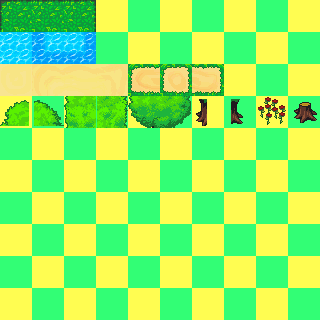
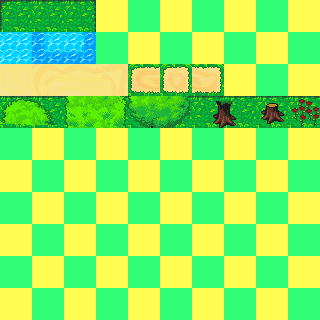
SpritesManipulados1

Changed region(s): [[0.2812, 0.2812, 1.0, 0.4062], [0.0, 0.2812, 0.2188, 0.4062]]

diff --git a/src/mapa/MapaCargado.java b/src/mapa/MapaCargado.java
@@ -1,0 +1,65 @@
+/*
+ * To change this license header, choose License Headers in Project Properties.
+ * To change this template file, choose Tools | Templates
+ * and open the template in the editor.
+ */
+package mapa;
+
+import java.awt.image.BufferedImage;
+import java.io.IOException;
+import java.util.logging.Level;
+import java.util.logging.Logger;
+import javax.imageio.ImageIO;
+import mapa.cuadro.Cuadro;
+
+/**
+ *
+ * @author Eber
+ */
+public class MapaCargado extends Mapa {
+    
+    private int[] pixeles;
+    
+    public MapaCargado(String ruta) {
+        super(ruta);
+    }
+    
+    protected void cargarMapa(String ruta){
+        try {
+            BufferedImage imagen = ImageIO.read(MapaCargado.class.getResource(ruta));
+            
+            
+            ancho = imagen.getWidth();
+            alto = imagen.getHeight();
+            
+            cuadrosCatalogo = new Cuadro[ancho *  alto];
+            pixeles = new int[ancho * alto];
+            
+            imagen.getRGB(0, 0, ancho, alto, pixeles, 0, ancho);
+            
+        } catch (IOException ex) {
+            Logger.getLogger(MapaCargado.class.getName()).log(Level.SEVERE, null, ex);
+        }
+        
+    }
+    
+    protected void generarMapa(){
+        for(int i = 0; i< pixeles.length;i++){
+         
+            
+            switch(pixeles[i]){
+                case 0xff17d11b:
+                    cuadrosCatalogo[i] = Cuadro.PASTO;
+                    continue;
+                case 0xff7095fe:
+                    cuadrosCatalogo[i] = Cuadro.AGUA;
+                    continue;
+                default:
+                    cuadrosCatalogo[i] = Cuadro.VACIO;
+            }
+        }
+    }
+    
+    
+    
+}

diff --git a/src/graficos/Sprite.java b/src/graficos/Sprite.java
@@ -21,14 +21,14 @@ public final class Sprite {
     
     
     //Coleccion de sprites
-        public static final Sprite PASTO = new Sprite(32,0,0,HojaSprites.desierto);
+        public static final Sprite PASTO = new Sprite(32,0,0,0,HojaSprites.desierto);
         public static final Sprite VACIO = new Sprite(32,0);
-        public static final Sprite AGUA = new Sprite(32,0,1,HojaSprites.desierto);
+        public static final Sprite AGUA = new Sprite(32,0,1,0,HojaSprites.desierto);
         
     
     //fin de la coleccion
     
-    public Sprite(int lado, final int columna,final int fila,final HojaSprites hoja){
+    public Sprite(int lado, final int columna,final int fila,final int version,final HojaSprites hoja){
         this.lado = lado;
         
         pixeles = new int[lado * lado];
@@ -37,12 +37,8 @@ public final class Sprite {
         this.x = columna * lado;
         this.y = fila * lado;
         
-        for(int y=0;y<lado;y++){
-            for(int x = 0; x<lado; x++){
-                pixeles[x + y * lado] = hoja.pixeles[(x + this.x) + (y + this.y) * hoja.get_ancho()];
-            }
-        }
-        
+      
+        cargarSprite(version);
         
         
     
@@ -59,5 +55,23 @@ public final class Sprite {
     public int get_lado(){
         return lado;
     }
+    
+    private void cargarSprite(int version){
+        if(version == 0){
+            cargaNormal();
+        }else{
+            
+        }
+    }
+    
+    private void cargaNormal(){
+         for(int y=0;y<lado;y++){
+            for(int x = 0; x<lado; x++){
+                pixeles[x + y * lado] = hoja.pixeles[(x + this.x) + (y + this.y) * hoja.get_ancho()];
+            }
+        }
+     }
+    
+    
     
 }

diff --git a/src/mapa/Mapa.java b/src/mapa/Mapa.java
@@ -17,6 +17,7 @@ public abstract class Mapa {
     protected int alto;
     
     protected int[] cuadros;
+    protected Cuadro[] cuadrosCatalogo;
     
     public Mapa(int ancho, int alto){
         this.ancho = ancho;
@@ -29,6 +30,7 @@ public abstract class Mapa {
     
     public Mapa(String ruta){
         cargarMapa(ruta);
+        generarMapa();
         
     }
     
@@ -37,7 +39,7 @@ public abstract class Mapa {
         
     }
     
-    private void cargarMapa(String ruta){
+    protected void cargarMapa(String ruta){
     
         
     }
@@ -57,7 +59,12 @@ public abstract class Mapa {
         
         for(int y = norte; y<sur;y++){
             for(int x = oeste;x<este;x++){
-                get_cuadro(x,y).mostrar(x, y, pantalla);
+                //get_cuadro(x,y).mostrar(x, y, pantalla);
+                if(x < 0  || y < 0 || x >= ancho || y >= alto){
+                    Cuadro.VACIO.mostrar(x, y, pantalla);
+                }else{
+                    cuadrosCatalogo[x + y * ancho].mostrar(x, y, pantalla);
+                }
             }
         }
     }

diff --git a/src/juegorol2d/JuegoRol2D.java b/src/juegorol2d/JuegoRol2D.java
@@ -20,6 +20,7 @@ import java.util.logging.Logger;
 import javax.swing.ImageIcon;
 import javax.swing.JFrame;
 import mapa.Mapa;
+import mapa.MapaCargado;
 import mapa.MapaGenerado;
 
 /**
@@ -65,7 +66,9 @@ public class JuegoRol2D extends Canvas implements Runnable {
         teclado = new Teclado();
         addKeyListener(teclado);
         pantalla = new Pantalla(ANCHO,ALTO);
-        mapa = new MapaGenerado(128,128);
+       // mapa = new MapaGenerado(128,128);
+       mapa = new MapaCargado("/mapas/MapaSprites1.png");
+       
         setPreferredSize(new Dimension(ANCHO,ALTO));
         ventana  = new JFrame(NOMBRE);
         ventana.setDefaultCloseOperation(JFrame.EXIT_ON_CLOSE);
@@ -135,7 +138,7 @@ public class JuegoRol2D extends Canvas implements Runnable {
             return;
         }
         
-        pantalla.limpiar();
+        //pantalla.limpiar();
         mapa.mostrar(x, y, pantalla);
         
         System.arraycopy(pantalla.pixeles,0, pixeles, 0, pixeles.length);
